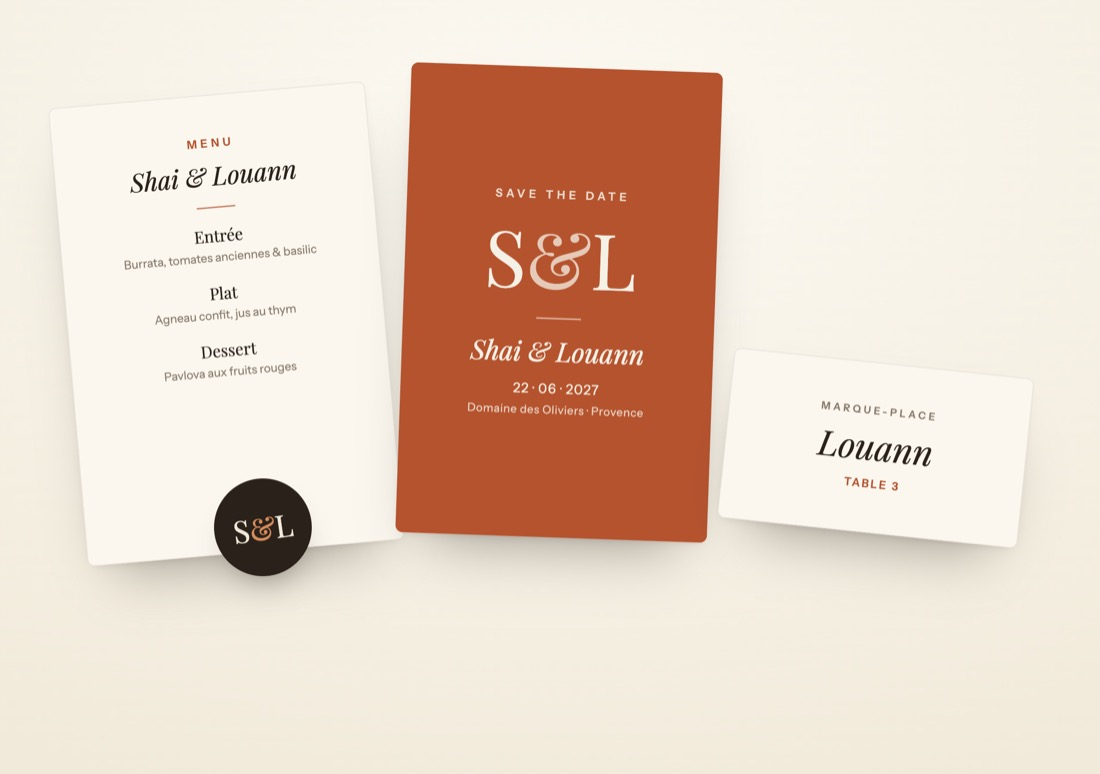
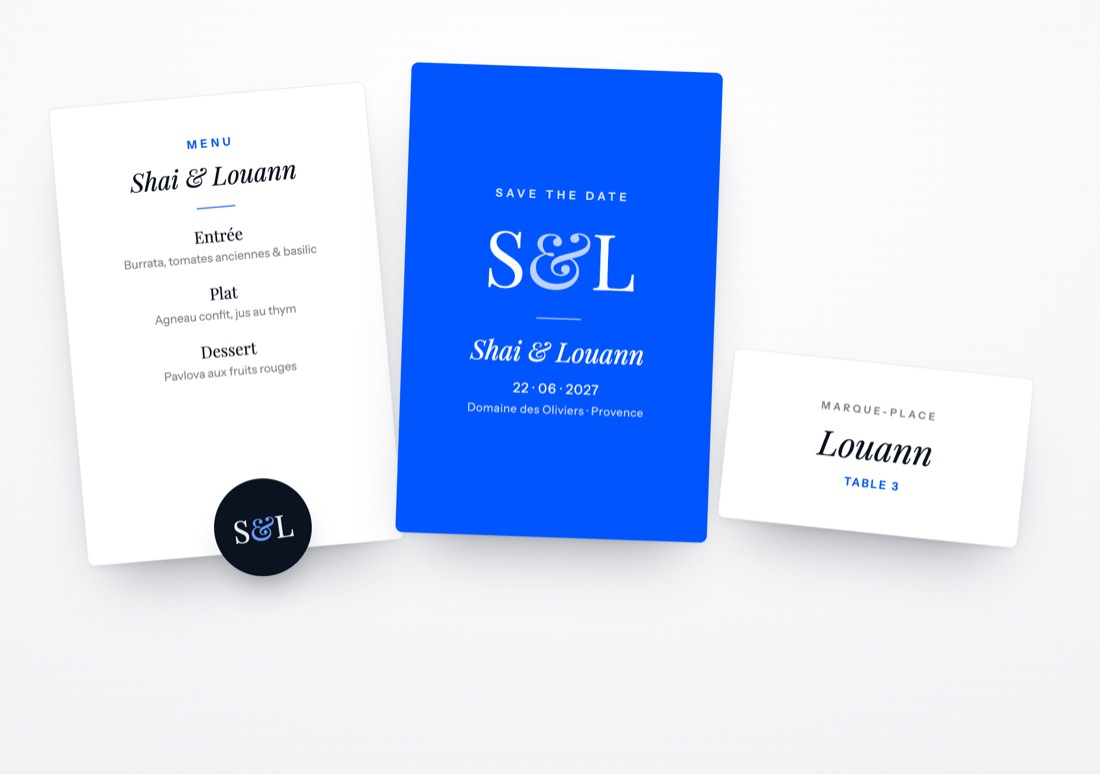
Refonte DA : fond clair aéré + accent bleu (esprit Blue Star) + layout alterné/zigzag + captures en 3D. Maquettes recolorées (Noga en violet réel).

diff --git a/assets/pole.css b/assets/pole.css
@@ -1,9 +1,9 @@
 /* ===== Style partagé des pages "pôle" onlee (noir & or, épuré) ===== */
 :root {
-  --paper:#F6F1E7; --paper-2:#EFE8DA; --card:#FBF7EF;
-  --ink:#2A211A; --muted:#857868;
-  --line:rgba(42,33,26,.12); --line-2:rgba(42,33,26,.22);
-  --gold:#B5532E; --gold-hi:#C56A44; --on-accent:#F6F1E7;
+  --paper:#FBFBFA; --paper-2:#F1F2F4; --card:#FFFFFF;
+  --ink:#0B1220; --muted:#83868F;
+  --line:rgba(11,18,32,.08); --line-2:rgba(11,18,32,.14);
+  --gold:#0055FF; --gold-hi:#2E70FF; --on-accent:#FFFFFF;
   --serif:'Playfair Display', Georgia, serif;
   --sans:'Instrument Sans', system-ui, -apple-system, 'Segoe UI', Helvetica, Arial, sans-serif;
   --ease:cubic-bezier(.22,.61,.36,1);
@@ -81,10 +81,22 @@ header .pill { padding:10px 20px; font-size:13.5px; }
 .presta .media.flat::before, .presta .media.flat::after { content:none; display:none; }
 .presta .media.flat img { border-radius:16px; box-shadow:0 32px 62px -40px rgba(42,33,26,.38); display:block; width:100%; }
 .presta .soon { display:inline-block; margin-top:16px; font-size:12.5px; letter-spacing:.06em; color:var(--muted); border:1px solid var(--line-2); border-radius:999px; padding:6px 13px; }
+/* captures présentées en perspective 3D (elles se redressent au survol) */
+.presta .media { transition:transform .7s var(--ease), box-shadow .5s var(--ease); }
 @media (min-width:860px) {
   .presta .row { grid-template-columns:54px 1fr 1.2fr; align-items:center; }
   .presta.no-media .row { grid-template-columns:64px 1fr; }
+  .presta .media { transform:perspective(1700px) rotateY(-6deg) scale(.985); }
+  .presta .media:hover { transform:perspective(1700px) rotateY(0deg) scale(1); }
+  /* placement alterné (zigzag) : les prestations paires passent l'image à gauche */
+  .presta:not(.no-media):nth-of-type(even) .row { grid-template-columns:1.2fr 1fr 54px; }
+  .presta:not(.no-media):nth-of-type(even) .row > *:nth-child(1) { order:3; text-align:right; }
+  .presta:not(.no-media):nth-of-type(even) .row > *:nth-child(2) { order:2; }
+  .presta:not(.no-media):nth-of-type(even) .row > *:nth-child(3) { order:1; }
+  .presta:not(.no-media):nth-of-type(even) .media { transform:perspective(1700px) rotateY(6deg) scale(.985); }
+  .presta:not(.no-media):nth-of-type(even) .media:hover { transform:perspective(1700px) rotateY(0deg) scale(1); }
 }
+@media (prefers-reduced-motion: reduce) { .presta .media { transform:none!important; } }
 
 .feat { display:grid; grid-template-columns:1fr; gap:clamp(20px,3vw,30px); margin-top:clamp(30px,4vw,48px); }
 .feat .f { border-top:2px solid var(--gold); padding-top:16px; }

diff --git a/index.html b/index.html
@@ -42,17 +42,17 @@
 
 <style>
   :root {
-    --paper:#F6F1E7;      /* crème chaud */
-    --paper-2:#EFE8DA;    /* section alternée */
-    --card:#FBF7EF;
-    --ink:#2A211A;        /* espresso */
-    --muted:#857868;      /* taupe chaud */
-    --line:rgba(42,33,26,.12);
-    --line-2:rgba(42,33,26,.22);
-    --gold:#B5532E;       /* terracotta (accent) */
-    --gold-hi:#C56A44;    /* terracotta clair (survol) */
-    --gold-soft:rgba(181,83,46,.38);
-    --on-accent:#F6F1E7;  /* texte sur accent */
+    --paper:#FBFBFA;      /* blanc cassé neutre, aéré */
+    --paper-2:#F1F2F4;    /* gris clair (sections alternées) */
+    --card:#FFFFFF;
+    --ink:#0B1220;        /* bleu-nuit presque noir (contraste fort) */
+    --muted:#83868F;      /* gris froid */
+    --line:rgba(11,18,32,.08);
+    --line-2:rgba(11,18,32,.14);
+    --gold:#0055FF;       /* bleu électrique (accent, esprit Blue Star) */
+    --gold-hi:#2E70FF;    /* bleu survol */
+    --gold-soft:rgba(0,85,255,.13);
+    --on-accent:#FFFFFF;  /* texte sur accent */
     --serif:'Playfair Display', Georgia, 'Times New Roman', serif;
     --sans:'Instrument Sans', system-ui, -apple-system, 'Segoe UI', Helvetica, Arial, sans-serif;
     --ease:cubic-bezier(.22,.61,.36,1);
